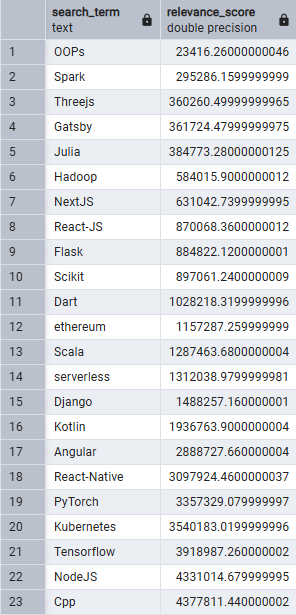
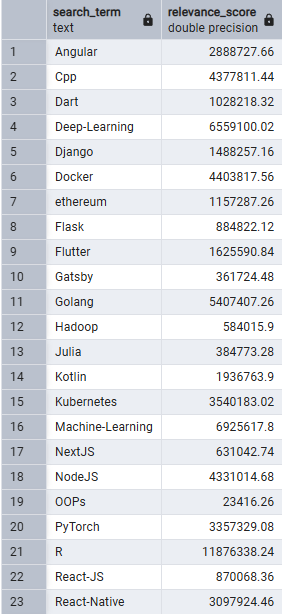
Add files

Changed region(s): [[0.5674, 0.0, 0.9929, 0.9902], [0.0, 0.0, 0.539, 1.0], [0.4823, 0.0, 0.539, 0.0619]]

diff --git a/main.py b/main.py
@@ -1,5 +1,5 @@
 from pyspark.sql import SparkSession, DataFrame
-from pyspark.sql.functions import col, sum as spark_sum, lit, count
+from pyspark.sql.functions import round, col, sum as spark_sum, lit, count
 from pyspark.sql.types import StructType, StructField, StringType, LongType
 import functools
 import os
@@ -84,7 +84,7 @@ organizations_stars_df = repos_df.filter(col("type") == "Organization") \
 # 3. Search Terms Relevance Table
 search_terms_relevance_df = repos_df.groupBy("search_term") \
     .agg(
-        spark_sum(1.5 * col("forks") + 1.32 * col("subscribers") + 1.04 * col("stars")).alias("relevance_score")
+        round(spark_sum(1.5 * col("forks") + 1.32 * col("subscribers") + 1.04 * col("stars")), 2).alias("relevance_score")
     )
 
 # Function to write DataFrame to PostgreSQL
